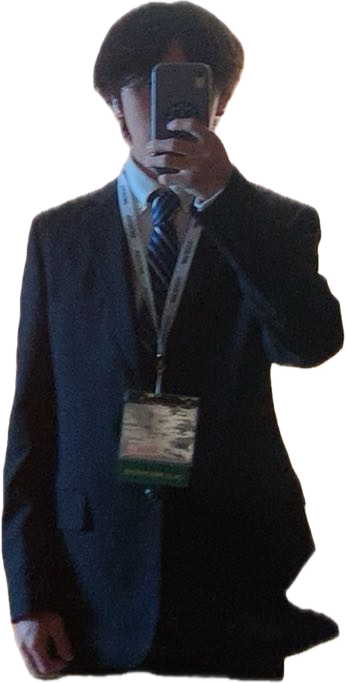
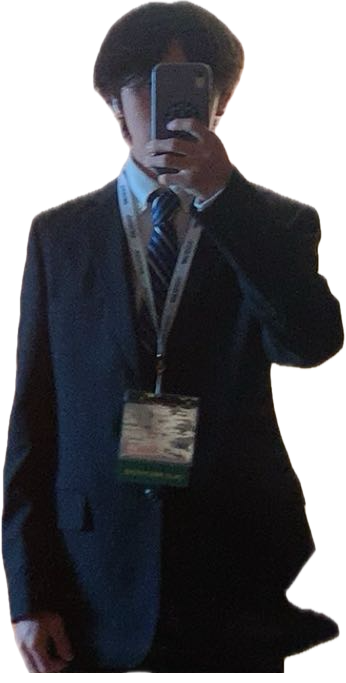
-

Changed region(s): [[0.4335, 0.9839, 0.8382, 1.0], [0.0867, 0.9839, 0.3757, 1.0]]

diff --git a/css/style.css b/css/style.css
@@ -275,7 +275,7 @@ section {
 
 .home-img img {
     position: absolute;
-    bottom: 0;
+    bottom: -0.4rem;
     right: 140px;
     width: 23%;
     pointer-events: none;
